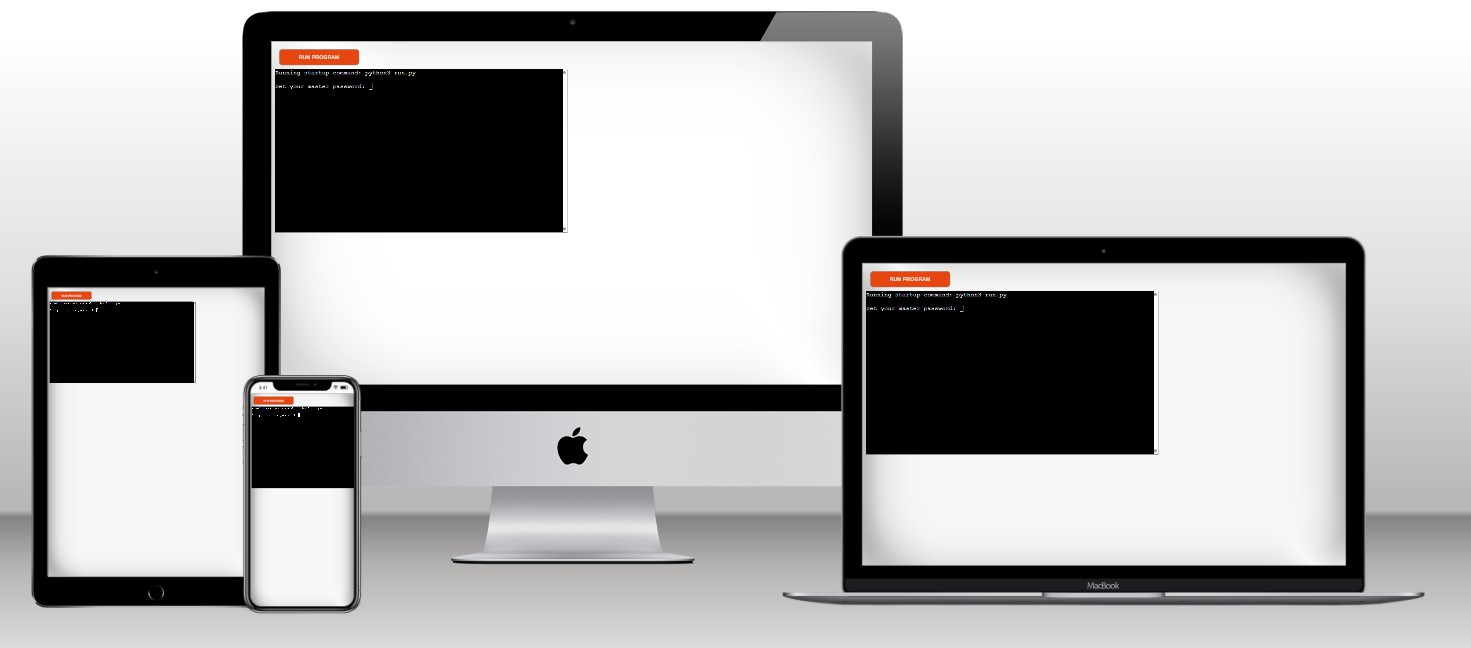
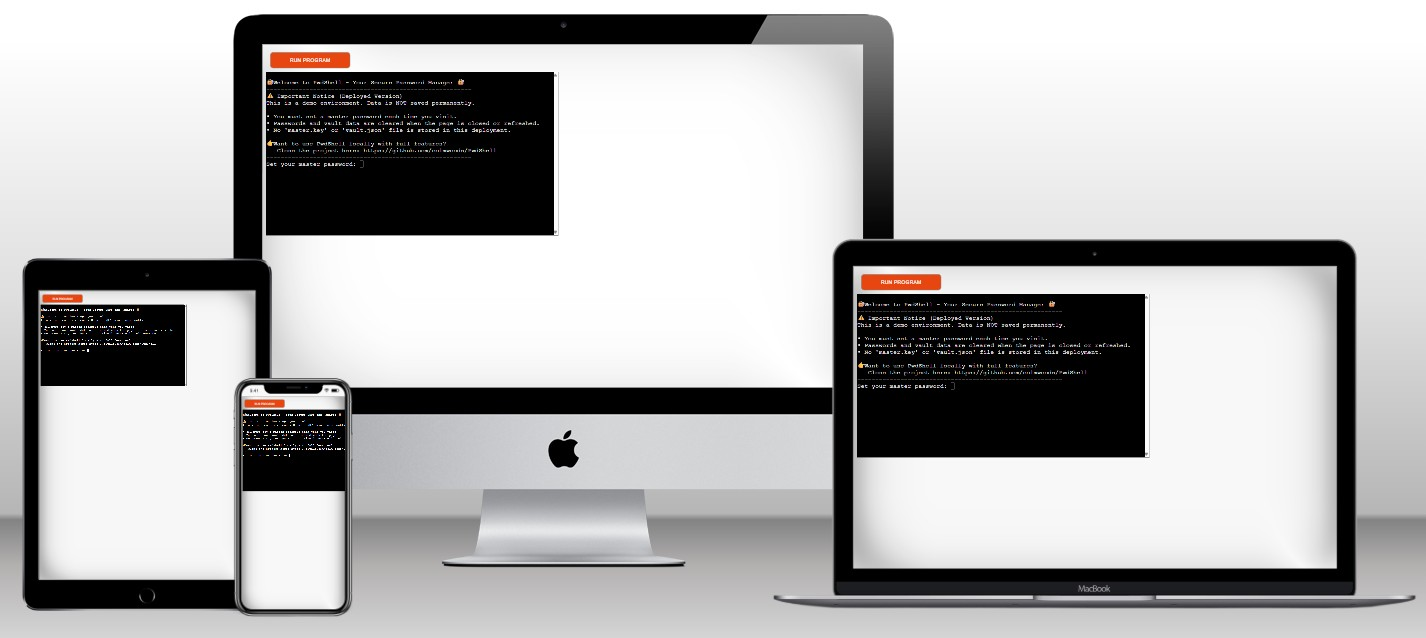
Add new ss in to macth the change that i made in my run.py file

Changed region(s): [[0.0, 0.0, 1.0, 0.9828]]

diff --git a/README.md b/README.md
@@ -101,9 +101,12 @@ Screenshot of the terminal menu structure that users interact with after logging
 - Minimal text UI.  
 - Symbols and dividers used for readability.  
 
-**Colours**
-- The terminal app relies on the system terminal’s default colour scheme.  
-- In future, the app could use [Colorama](https://pypi.org/project/colorama/) to add colour-coded menus and alerts.  
+**Colours**  
+- The terminal app primarily uses the system terminal’s default colour scheme.  
+- To improve readability, [Colorama](https://pypi.org/project/colorama/) has been implemented:  
+  - `SUCCESS` messages appear in **bright green**.  
+  - `ERROR` messages appear in **bright red**.  
+  - `RESET` restores the terminal back to its default style.  
 
 **Typography**
 - The app uses the system’s default **monospaced font** (e.g., Consolas, Courier New, or Menlo depending on OS).  
@@ -140,10 +143,15 @@ Screenshot of the terminal menu structure that users interact with after logging
 | Feature | Notes | Screenshot |
 | --- | --- | --- |
 | Master Password | Vault is protected with a SHA256 hash of the master password. |![Master Password](docs/img/features/master-password.jpg)    |
-| Add Account | Add username + password securely to JSON vault. | ![Add Account](docs/img/features/add-account.jpg) |
+| Add Account | Add username + password securely to the vault.  
+- **Local**: stored in `vault.json` for persistence.  
+- **Heroku**: stored only in session memory (cleared when restarted).  
+The password input itself is hidden using the `getpass` method for security. | ![Add Account](docs/img/features/add-account.jpg) 
+- Because `clear()` runs after each input, only the confirmation message is visible in the screenshot, not every input step. |
 | Get Account | View stored login details by account name. | ![Get Account](docs/img/features/get-password.jpg) |
 | View Accounts | List all stored accounts. | ![View Accounts](docs/img/features/view-accounts.jpg) |
-| Delete Account | Remove account from the vault. | ![Delete Account](docs/img/features/delete-account.jpg) |
+| Delete Account | Remove account from the vault. | ![Delete Account](docs/img/features/delete-account.jpg) 
+- Because `clear()` runs after each input, only the confirmation message is visible in the screenshot, not every input step. |
 
 ### Future Features
 - Password generator for creating secure passwords.  
